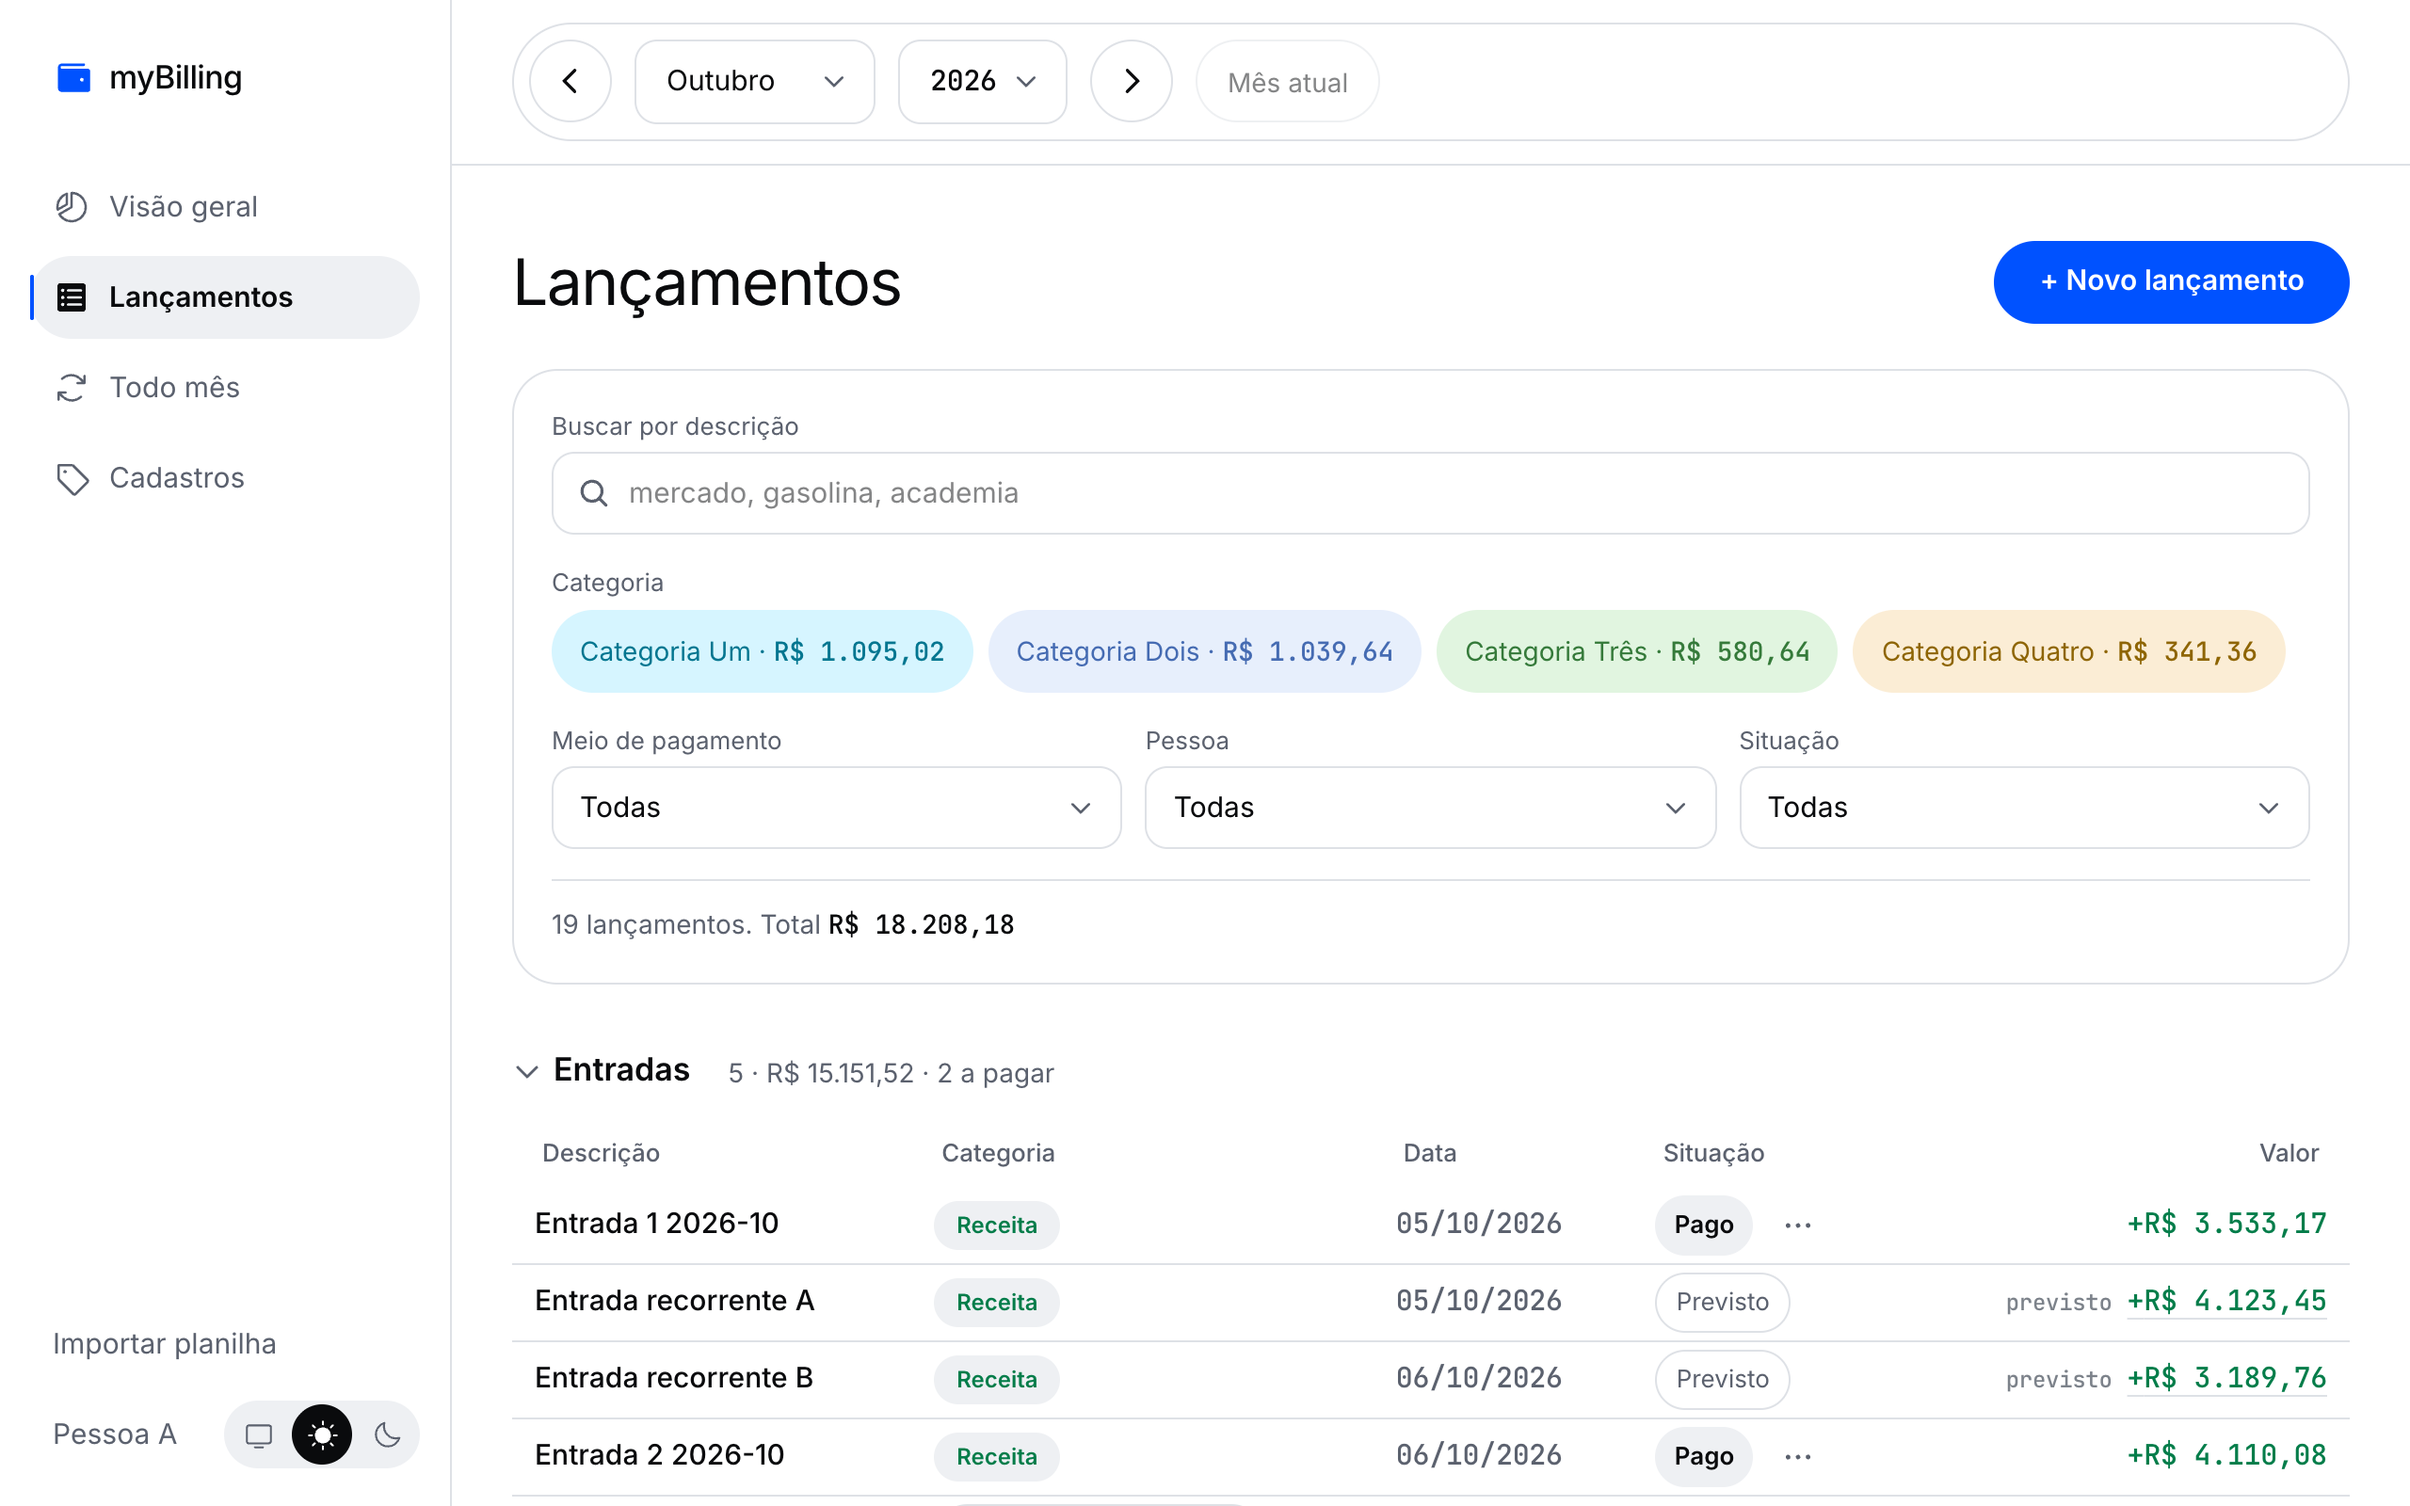
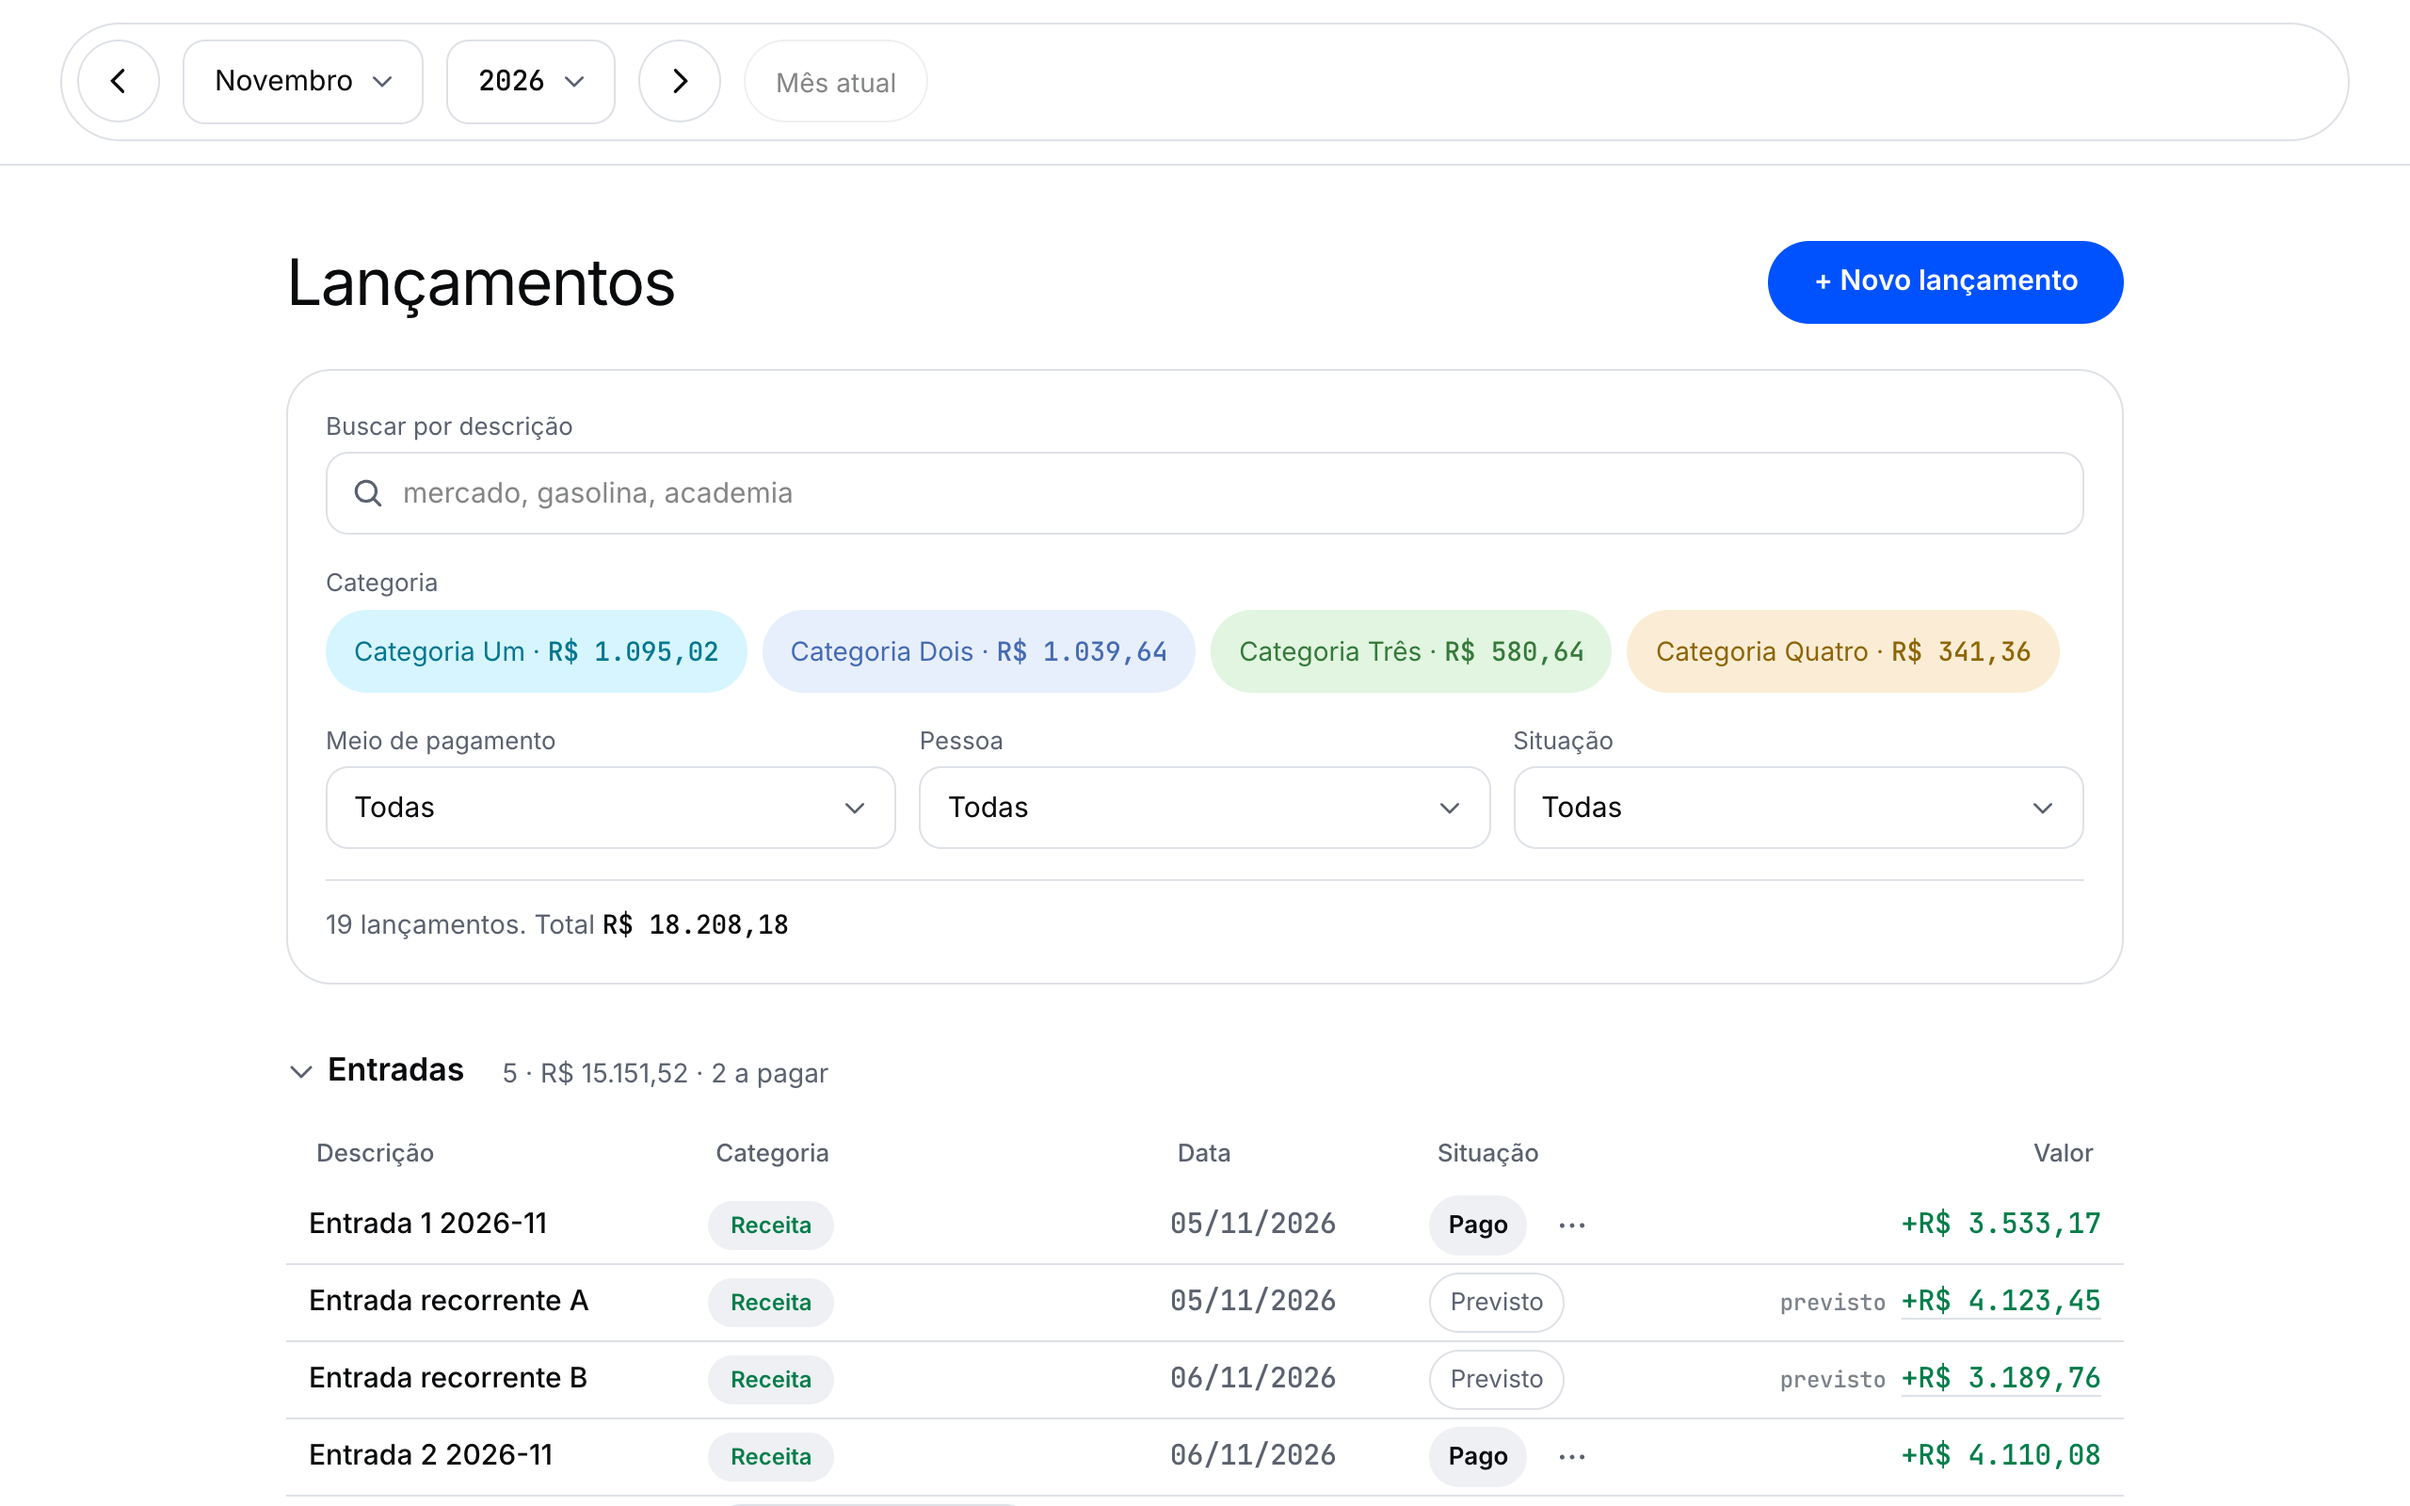
feat(site): fotografar o app sem o menu lateral
O script de captura abre a tela mais larga, mede onde o <main> começa e
fotografa só a área de conteúdo, com os mesmos 1.280 x 800 de antes: o
menu mostrava o nome interno do app, e a landing se chama Jano. As quatro
imagens foram regeneradas a partir do seed num banco próprio, e um teste
confere que width e height do HTML batem com o cabeçalho de cada PNG.

diff --git a/.specs/features/landing-jano/spec.md b/.specs/features/landing-jano/spec.md
@@ -298,7 +298,7 @@ atrás do código do app.
 | JANO-04 | P1: A casa inventada | Execute | Implemented: T3, `site/fonte/casa-inventada.ts` e `site/simulador.test.mjs` ("JANO-04 ACs 1 e 3", "JANO-04 AC 2" duas vezes, "JANO-04 AC 4") |
 | JANO-05 | P1: O pacote versionado e fresco | Execute | Implementing: ACs 1, 2 e 4 em T3 (`site/construir.mjs`, `pnpm site:construir`, "JANO-05 ACs 1 e 2", `biome.json` ignora `site/simulador.js`); mutantes "frase mudada sem reconstruir" e "resíduo nas últimas" morrem; AC 3 em T5 ("CAMP-03 AC 5, revisto por JANO-05 AC 3") |
 | JANO-06 | P2: A página não promete o que não existe | Execute | Implemented: T6, `site/estrutura.test.mjs` ("JANO-06 ACs 1 e 2", "JANO-06 AC 3", "JANO-06 AC 4"); a regra de "em breve" sai do teste apagado e vira "VEM-04 AC 1" |
-| JANO-07 | P2: As capturas sem o nome antigo | Execute | Implementing: AC 3 em T4 ("JANO-07 AC 3"); ACs 1, 2 e 4 em T7 |
+| JANO-07 | P2: As capturas sem o nome antigo | Execute | Implemented: AC 1 em T7 (`site/capturar.mjs` recorta a partir do `<main>`; quatro imagens regeneradas e conferidas); ACs 2 e 4 em "JANO-07 ACs 2 e 4"; AC 3 em "JANO-07 AC 3" (T4) |
 | JANO-08 | P2: Documentos, decisão e gates | Execute | Implementing: ACs 1 a 3 em T1 (`posicionamento.md` seções "Nome" e "O produto em uma frase", sem "O que vem a seguir", nota do 14%; `kit-de-copy.md` com 8 headlines, a primeira "Antes de parcelar, pergunte ao Jano.", 0 "myBilling", 0 "ainda não existe"); ACs 4 e 5 em T8 |
 
 **Coverage:** 8 total, 8 mapeados para tasks (T1 a T8 em `tasks.md`), 0 unmapped

diff --git a/.specs/features/landing-jano/tasks.md b/.specs/features/landing-jano/tasks.md
@@ -194,9 +194,9 @@ T7 -> T8
 **Requirement**: JANO-07 (ACs 1, 2, 4)
 **Tools**: nenhuma
 **Done when**:
-- [ ] Quatro imagens novas, sem o menu (conferido abrindo cada uma) (AC 1)
-- [ ] Teste: `width`/`height` de cada `<img>` igual ao cabeçalho IHDR do PNG dividido pela escala 2 (AC 2)
-- [ ] Legendas com "dados de demonstração" (AC 4)
+- [x] Quatro imagens novas, sem o menu (conferido abrindo cada uma) (AC 1)
+- [x] Teste: `width`/`height` de cada `<img>` igual ao cabeçalho IHDR do PNG dividido pela escala 2 (AC 2)
+- [x] Legendas com "dados de demonstração" (AC 4)
 **Tests**: `site/estrutura.test.mjs`
 **Gate**: navegador
 
@@ -243,3 +243,7 @@ T7 -> T8
   que o JANO-08 AC 4 não listava; a lista foi corrigida na spec. O teste apagado de VEM-02 ACs 4 e 5
   tinha também a regra de "em breve" só nos botões (VEM-04 AC 1), que não depende da seção: ela
   ficou como teste próprio.
+- **Decisão do autor (T7):** as capturas usam um banco próprio, `mybilling_test_jano`, migrado e
+  semeado por `pnpm db:seed`, via `DATABASE_URL_CAPTURA`, para não disputar o `mybilling_test` com
+  os testes de integração. O React avisou de hydration mismatch durante a captura; é o aviso já
+  registrado no handoff da campanha, fora desta fatia.
